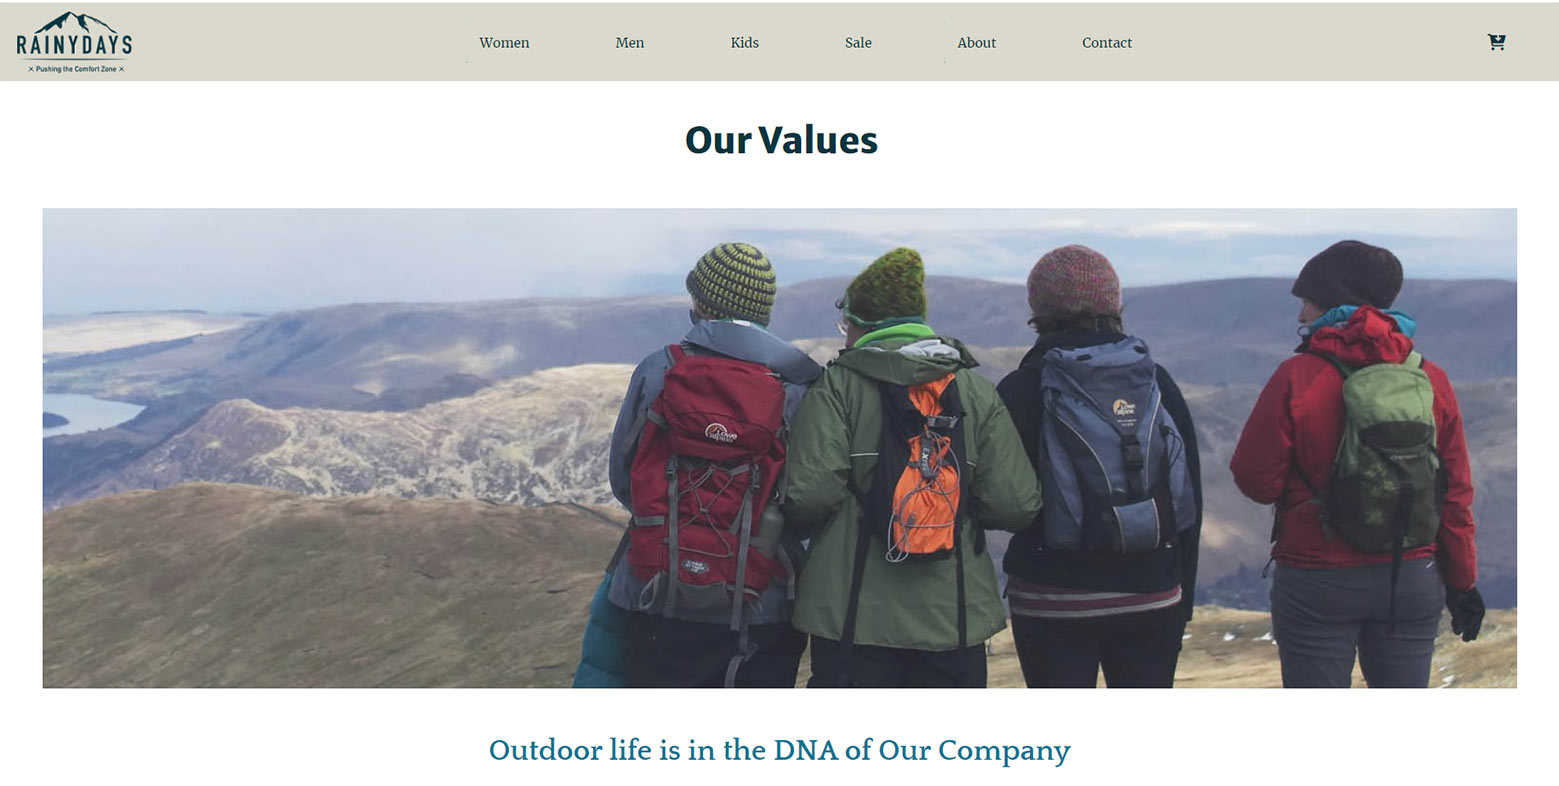
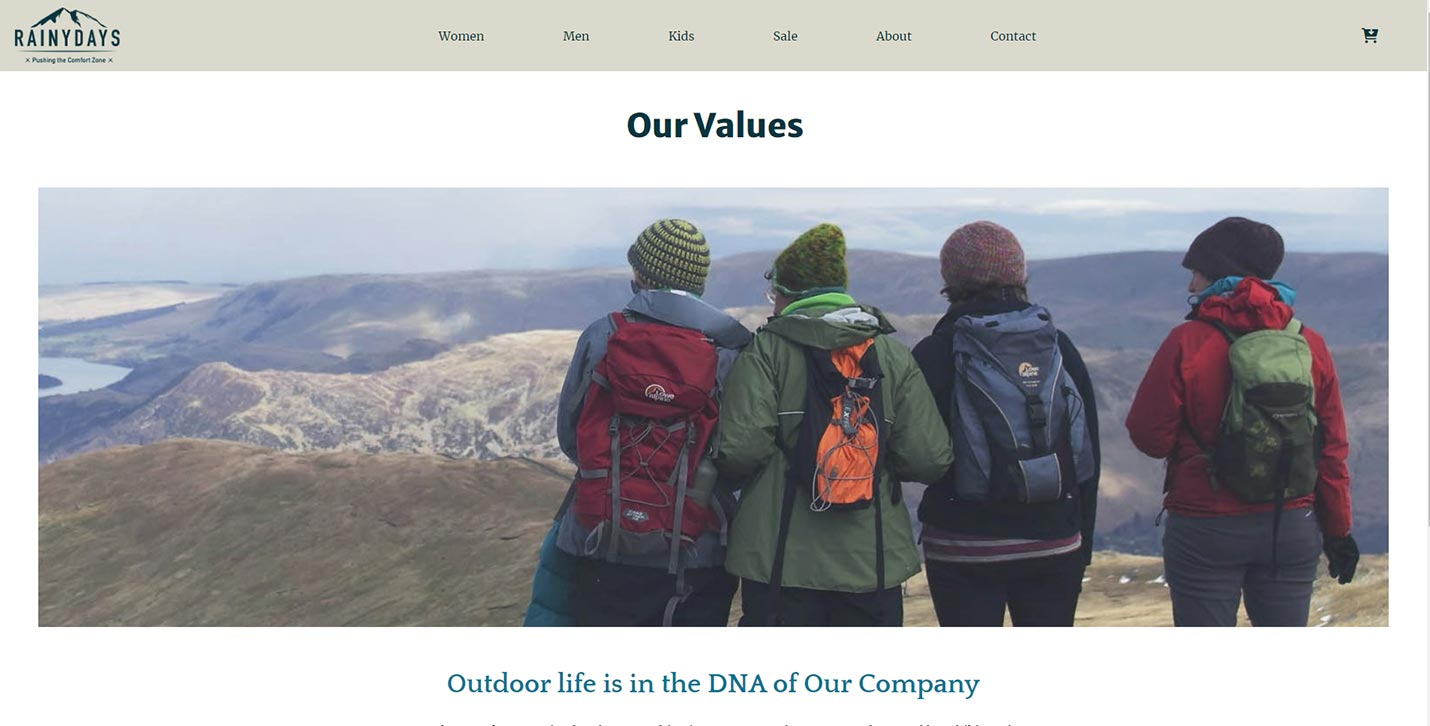
project img

diff --git a/CSS/style.css b/CSS/style.css
@@ -5,6 +5,12 @@
 }
 
 @font-face {
+    font-family: "Roboto-Light";
+    src: url("../fonts/Roboto/Roboto-Light.ttf")
+      format("truetype");
+  }
+
+@font-face {
     font-family: "Roboto-Thin";
     src: url("../fonts/Roboto/Roboto-Thin.ttf")
       format("truetype");
@@ -35,8 +41,10 @@
   nav a { 
       color: bisque;
       position: relative;
-      margin-left: 50px;
+      margin-right: 50px;
       text-decoration: none; 
+      font-family: 'MerriweatherSans', sans-serif;
+      font-size: 1.4rem;
   }
 
   nav a::after {
@@ -102,12 +110,12 @@
   }
 
   .contact-button {
-    font-family: 'MerriweatherSans', sans-serif;
-    font-size: 25px;
+    font-family: 'Roboto-Light', sans-serif;
+    font-size: 1.5rem;
     font-weight: 100;
     color: white;
     text-decoration: none;
-    padding: 12px 60px 12px 60px;
+    padding: 12px 70px 12px 70px;
     margin-top: 50px;
     border: 1px solid white;
     border-radius: 7px;
@@ -155,7 +163,7 @@
 
   .project-card img {
       max-width: 100%;
-      border: 1px solid black;
+      border: 3px solid black;
   }
   
 section {
@@ -193,7 +201,7 @@ section {
 hr {
     background-color: antiquewhite;    
     color: bisque;
-    width: 33%;
+    width: 25%;
     height: 5px;
 }
 
@@ -212,15 +220,17 @@ footer p {
     header h1 {
         margin-bottom: 18px;
         font-size: 42px;
-  
       }  
+
+      nav a { 
+        font-size: 0.9rem;
+    }
 }
 
 @media (max-width: 700px) {
     header h1 {
         margin: 0;
         font-size: 33px;
-  
       }  
 }
 

diff --git a/index.html b/index.html
@@ -27,7 +27,7 @@
     <section id="projects">	
 		<h2>Projects</h2>
     <div class="projects-container">
-        <a href="" class="project-card"><img src="Images/Happy-traveler.jpg" alt=""><p></p>Happy Traveler</a>
+        <a href="" class="project-card"><img src="Images/Travel-blog.jpg" alt=""><p></p>Happy Traveler</a>
         <a href="" class="project-card"><img src="Images/Museum.jpg" alt=""><p></p>Community Science Museum</a>
         <a href="" class="project-card"><img src="Images/Rainy-days.jpg" alt=""><p>Rainy Days</p></a>
         <section id="contact" class="contactcolor">
